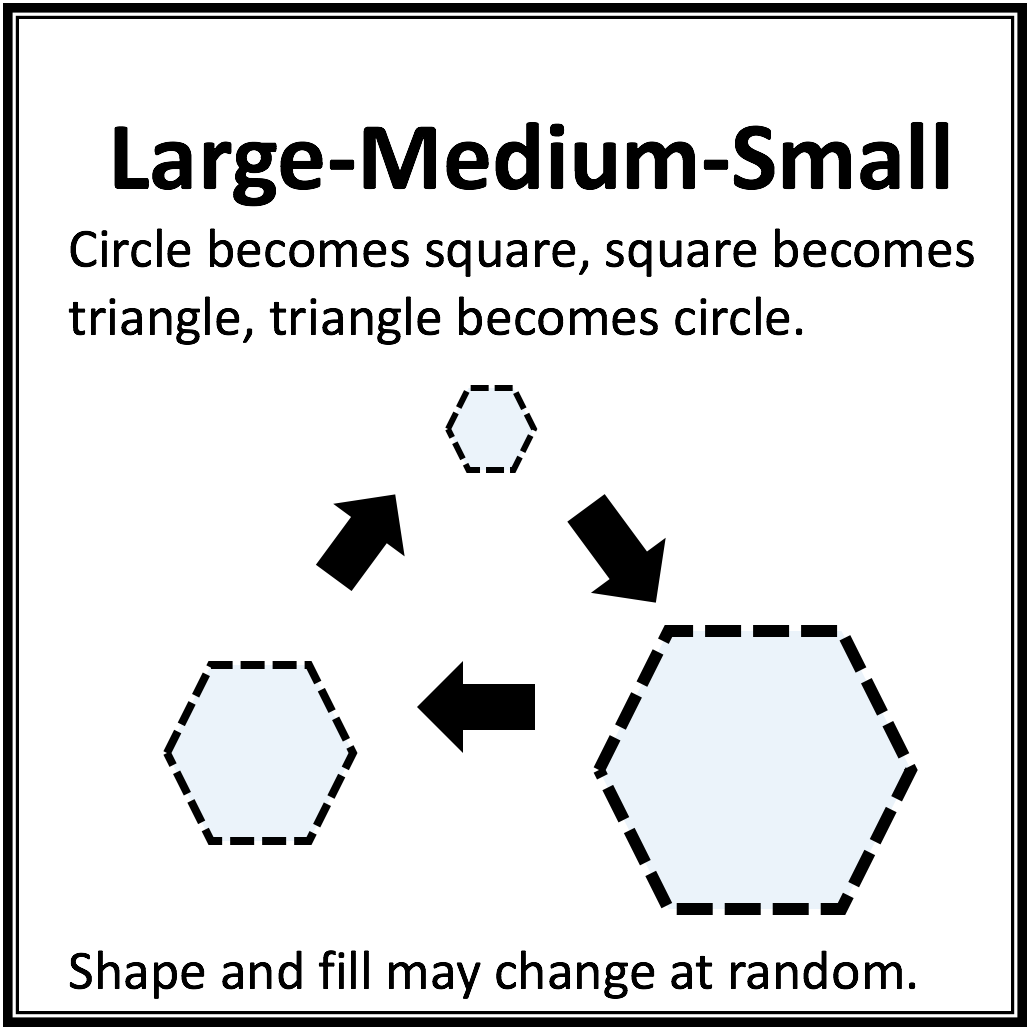
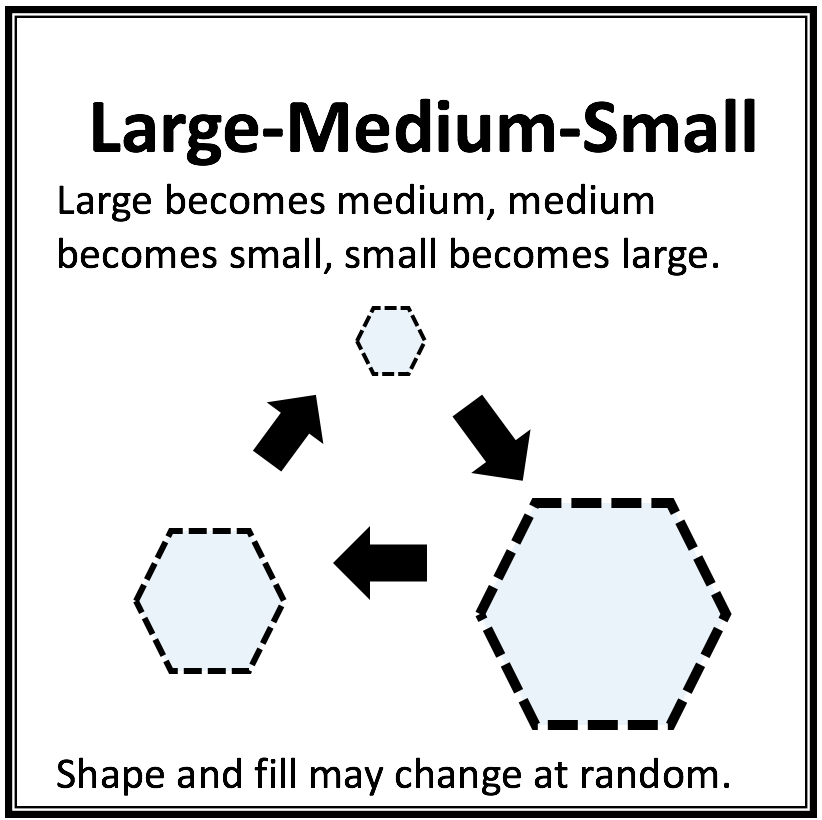
some new pictures; corrected typos; updated text; only have 5 stimuli

diff --git a/instruction-html.js b/instruction-html.js
@@ -1,15 +1,18 @@
 instructionPages = [
 
 	[
-		{text: 'For each test trial, there is a 50% chance that right screen was generated completely randomly.  There is also a 50% chance that it was generated according to a pattern that consistently links the objects in the right area with their corresponding paired objects in the left area. When there most likely <i>is not</i> a pattern, you should select "RANDOM" from the drop down menu.'
+		{text: '<p>This is a task about determining whether objects in two scenes may or may not be connected to each other by a <strong>consistent pattern</strong>.</p><p></br>You will be shown two screens in which pairs of objects will be revealed in a random sequence. Your job is to determine whether the paired objects revealed in the right and left screens follow a consistent pattern.</p><p></br>The objects in each pair wil always occur with the <strong><em>same location and same color</em></strong> in both screens. Objects occurring in different locations or with different colors in the two screens do not belong to the same pair.</p>'
+		,image: 'Page-2'}
+
+	 ,{text: 'For each test trial, there is a 50% chance that right screen was generated completely randomly.  There is also a 50% chance that it was generated according to a pattern that consistently links the objects in the right area with their corresponding paired objects in the left area. When there most likely <i>is not</i> a pattern, you should select "RANDOM" from the drop down menu.'
 	  ,image: 'Page-3'}
 
-	 ,{text: '<p>When there most likely <i>is</i> a pattern you should select the pattern that you believe is most probable. There are eight (8) possible patterns to choose from. No other patterns are used. The eight patterns are each based on a single feature.</p><p>For a pattern to be true, it must be true for all pairs in the two screens. Combinations of patterns are not used.</p>'
+	 ,{text: '<p>When there most likely <i>is</i> a pattern you should select the pattern that you believe is most probable. There are eight (8) possible patterns to choose from. No other patterns are used. The eight patterns are each based on a single feature.</p><p>For a pattern to be true, it must be true for <strong>all pairs</strong> in the two screens. Combinations of patterns are not used.</p>'
 	  ,image: 'Page-4'}
 	]
  ,[
 
-	  {text: '<p>You will reveal objects by clicking the "Show me more" button. The boxes above the dark areas will highlight to show there are new objects.</p><p></br>Each time a full pair is revealed, and you are required to select the most likely pattern from the dropdown menu and to indicate your level of confidence in the selected pattern. You will continue revealing objects and updating your pattern and confidence selections until all shapes have been revealed.</p><p></br>At any time you may view the eight patterns by pressing the "VIEW PATTERNS" button. The patterns will be shown in a pop up window. You must close this window to return to the trials. An image describing your presently selected pattern will appear at the bottom left side of the screen.</p>'
+	  {text: '<p>You will reveal objects by clicking the "Show me more" button on the bottom right of the screen which will reveal a number of objects in both screens, leading to one or more new complete pairs.</p><p></br>Each time that a full pair is newly revealed you are required to select the most likely pattern from the dropdown menu and to indicate your level of confidence in the selected pattern by adjusting the slider. During this time you may not press the "Show me more" button and it will instead display "Tell us what you think."</p><p></br>You will continue revealing objects and updating your pattern and confidence selections until all shapes have been revealed.</p>'
 	  ,image: 'Page-6'}
 
 	 ,{text: '<p>When all of the objects have been revealed you will have one final chance to update your selections. Then press the "Go to the next area" button to begin the next trial.</p><p></br>There are 10 total trials to complete, which is expected to take 30 minutes. Although, you may take up to 6 minutes per trial for a maximum of 1 hr.</p><p></br>Your pattern selections and confidence levels will be evaluated for probabilistic accuracy and appropriateness accounting for the information presented to you at each turn.</p>'

diff --git a/experiment.html b/experiment.html
@@ -77,7 +77,7 @@
 
     var shape_instructions = {
       type: 'text'
-     ,text: "<div id='instructionDiv'><div id='instructionText'>Each object in a pair may be described by three types of features: shape, size, and fill.<img src='instructionImages/Shapes.png' height='90%' width='90%'></div></div>"
+     ,text: "<div id='instructionDiv'><div id='instructionText'>Each object in a pair may be described by three types of features: shape, size, and fill.<img src='instructionImages/Shapes.png' height='90%' width='90%'></div><div id='instructionText'>Remember, the color and position of any object are used only to indicate membership in a pair across the screens.</div></div>"
     }
 
     var instruction_block1 = {
@@ -106,7 +106,7 @@
     }
 
     function startExperiment(mainTrials) {
-        darkroom_block.stimuli = testMode ? mainTrials : shuffle(mainTrials).slice(10);
+        darkroom_block.stimuli = testMode ? mainTrials : shuffle(mainTrials).slice(0, 5);
 
         var timeline = testMode ? [darkroom_block] : [welcome_trial, pre_instruction_trial, shape_instructions, instruction_block1, pattern_instructions, instruction_block2, get_ready_trial, darkroom_block];
 
